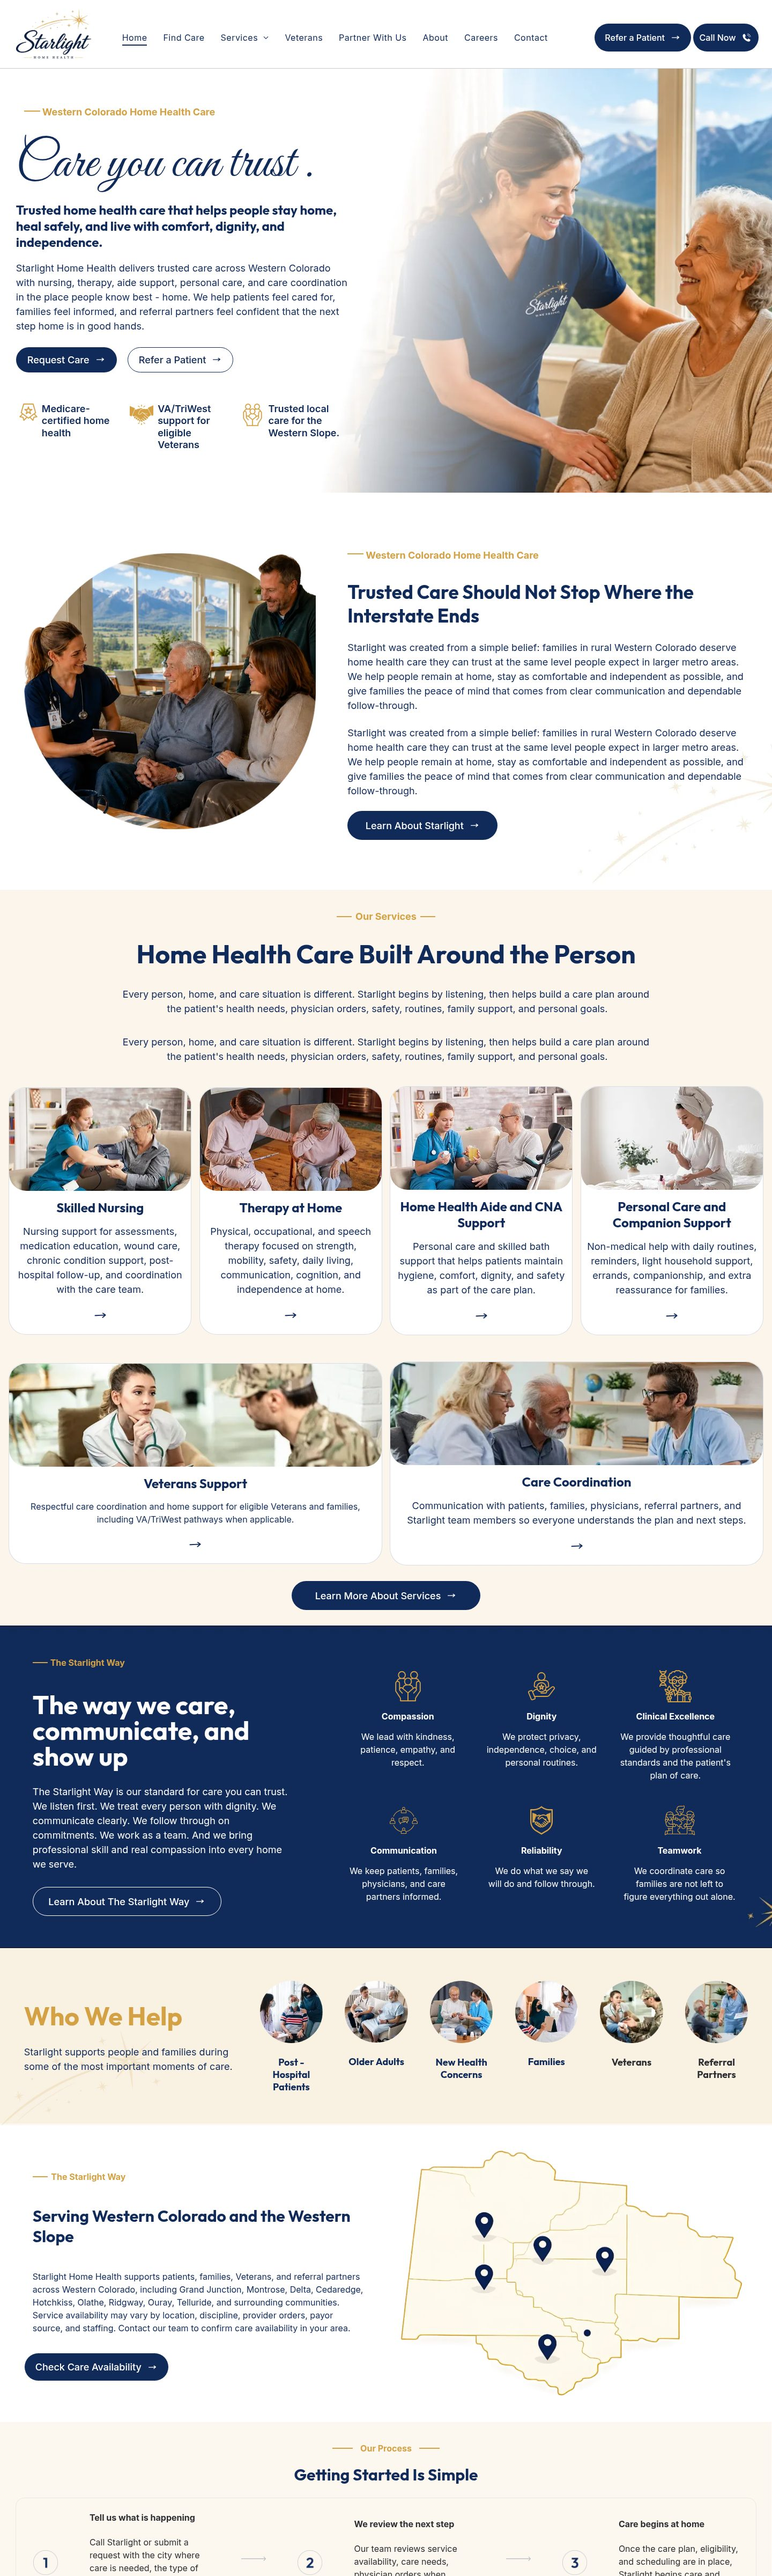
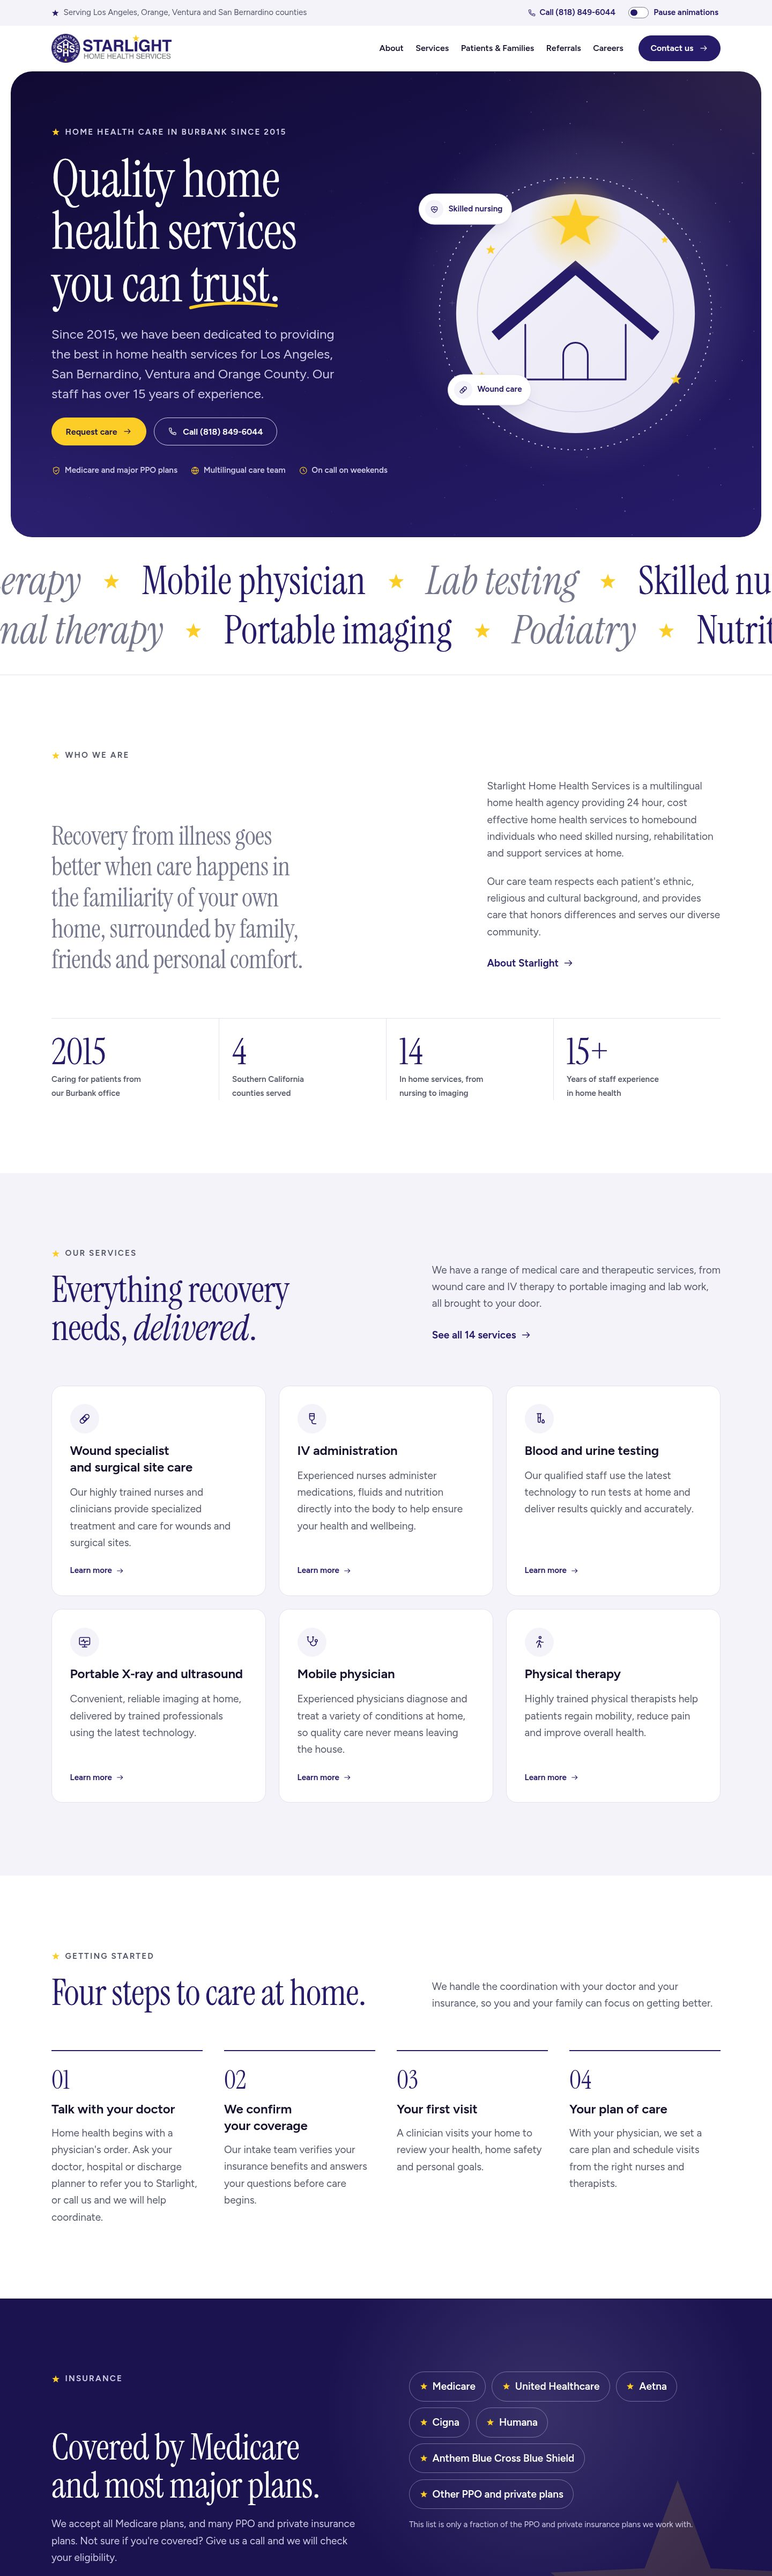
Point Starlight Home Health at starlighthh.com
The project was added with starlighthomehealth.com, which is a
different business. Switches it to the right site, replaces both
screenshots with captures of starlighthh.com, and changes the accent
to that site's yellow (#fccc27).

Claude-Session: https://claude.ai/code/session_0186SkpvZwVetKEg1Vg7xreV

diff --git a/js/projects.js b/js/projects.js
@@ -51,10 +51,10 @@ window.PROJECTS = [
   },
   {
     title: "Starlight Home Health",
-    url: "https://www.starlighthomehealth.com/",
+    url: "https://www.starlighthh.com/",
     category: "Home Health Care",
     image: "",
-    accent: "#d4a145",
+    accent: "#fccc27",
   },
   {
     title: "hlix",
